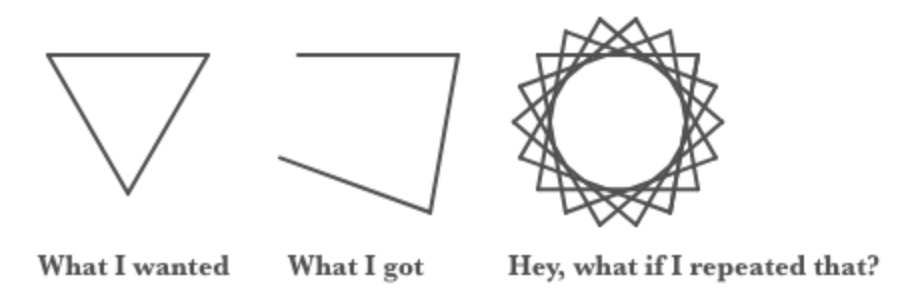
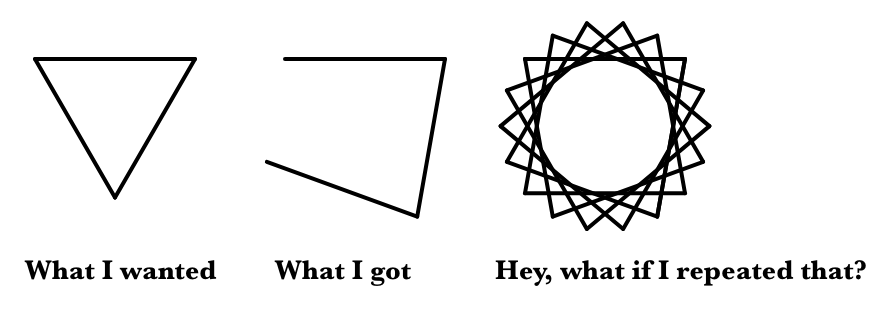
Debugging - love-bug image

diff --git a/cur/programming/2-complexity/debugging/debugging-recap.html b/cur/programming/2-complexity/debugging/debugging-recap.html
@@ -40,7 +40,7 @@
                 <li><strong>Keep a list of bugs you encounter and your solutions.</strong> The same bugs may come up again in a slightly different way, and your record will make fixing a similar bug next time less frustrating. Include any test cases that helped you identify the bugs (for example, "try inputting a word instead of a number").</li>
                 <li>
                 	<strong>Love your bugs!</strong> They pose an interesting puzzle. Sometimes their incorrect behavior suggests another project:<br />
-					<img class="indent" src="/bjc-r/img/2-complexity/love-bug.png" width="460" alt="buggy triangle turns into star by repetition">
+					<img class="indent noshadow" src="/bjc-r/img/2-complexity/love-bug.png" width="460" alt="buggy triangle turns into star by repetition">
                 </li>
             </ul>
         </p>
